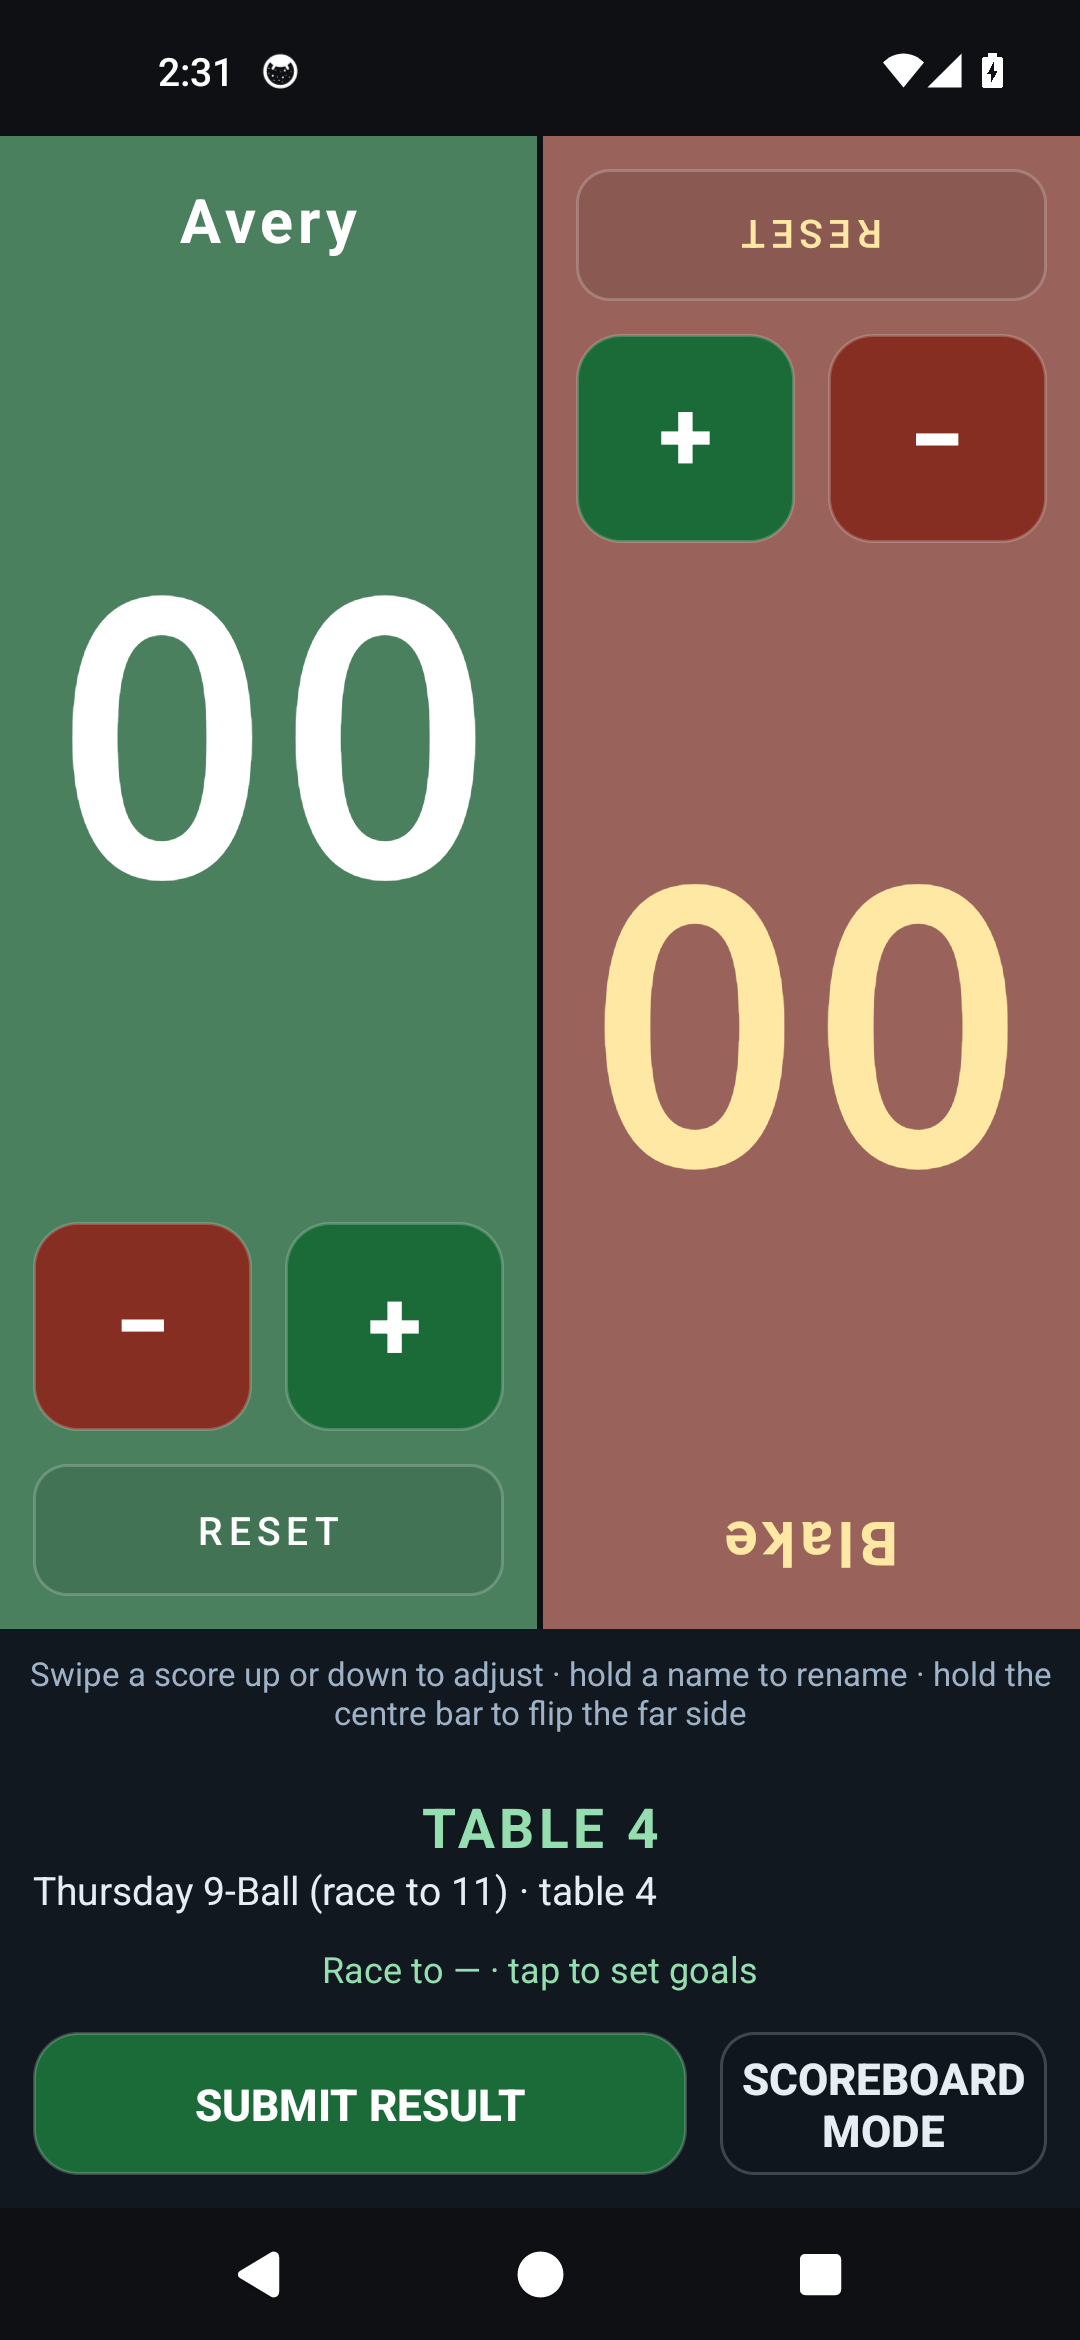
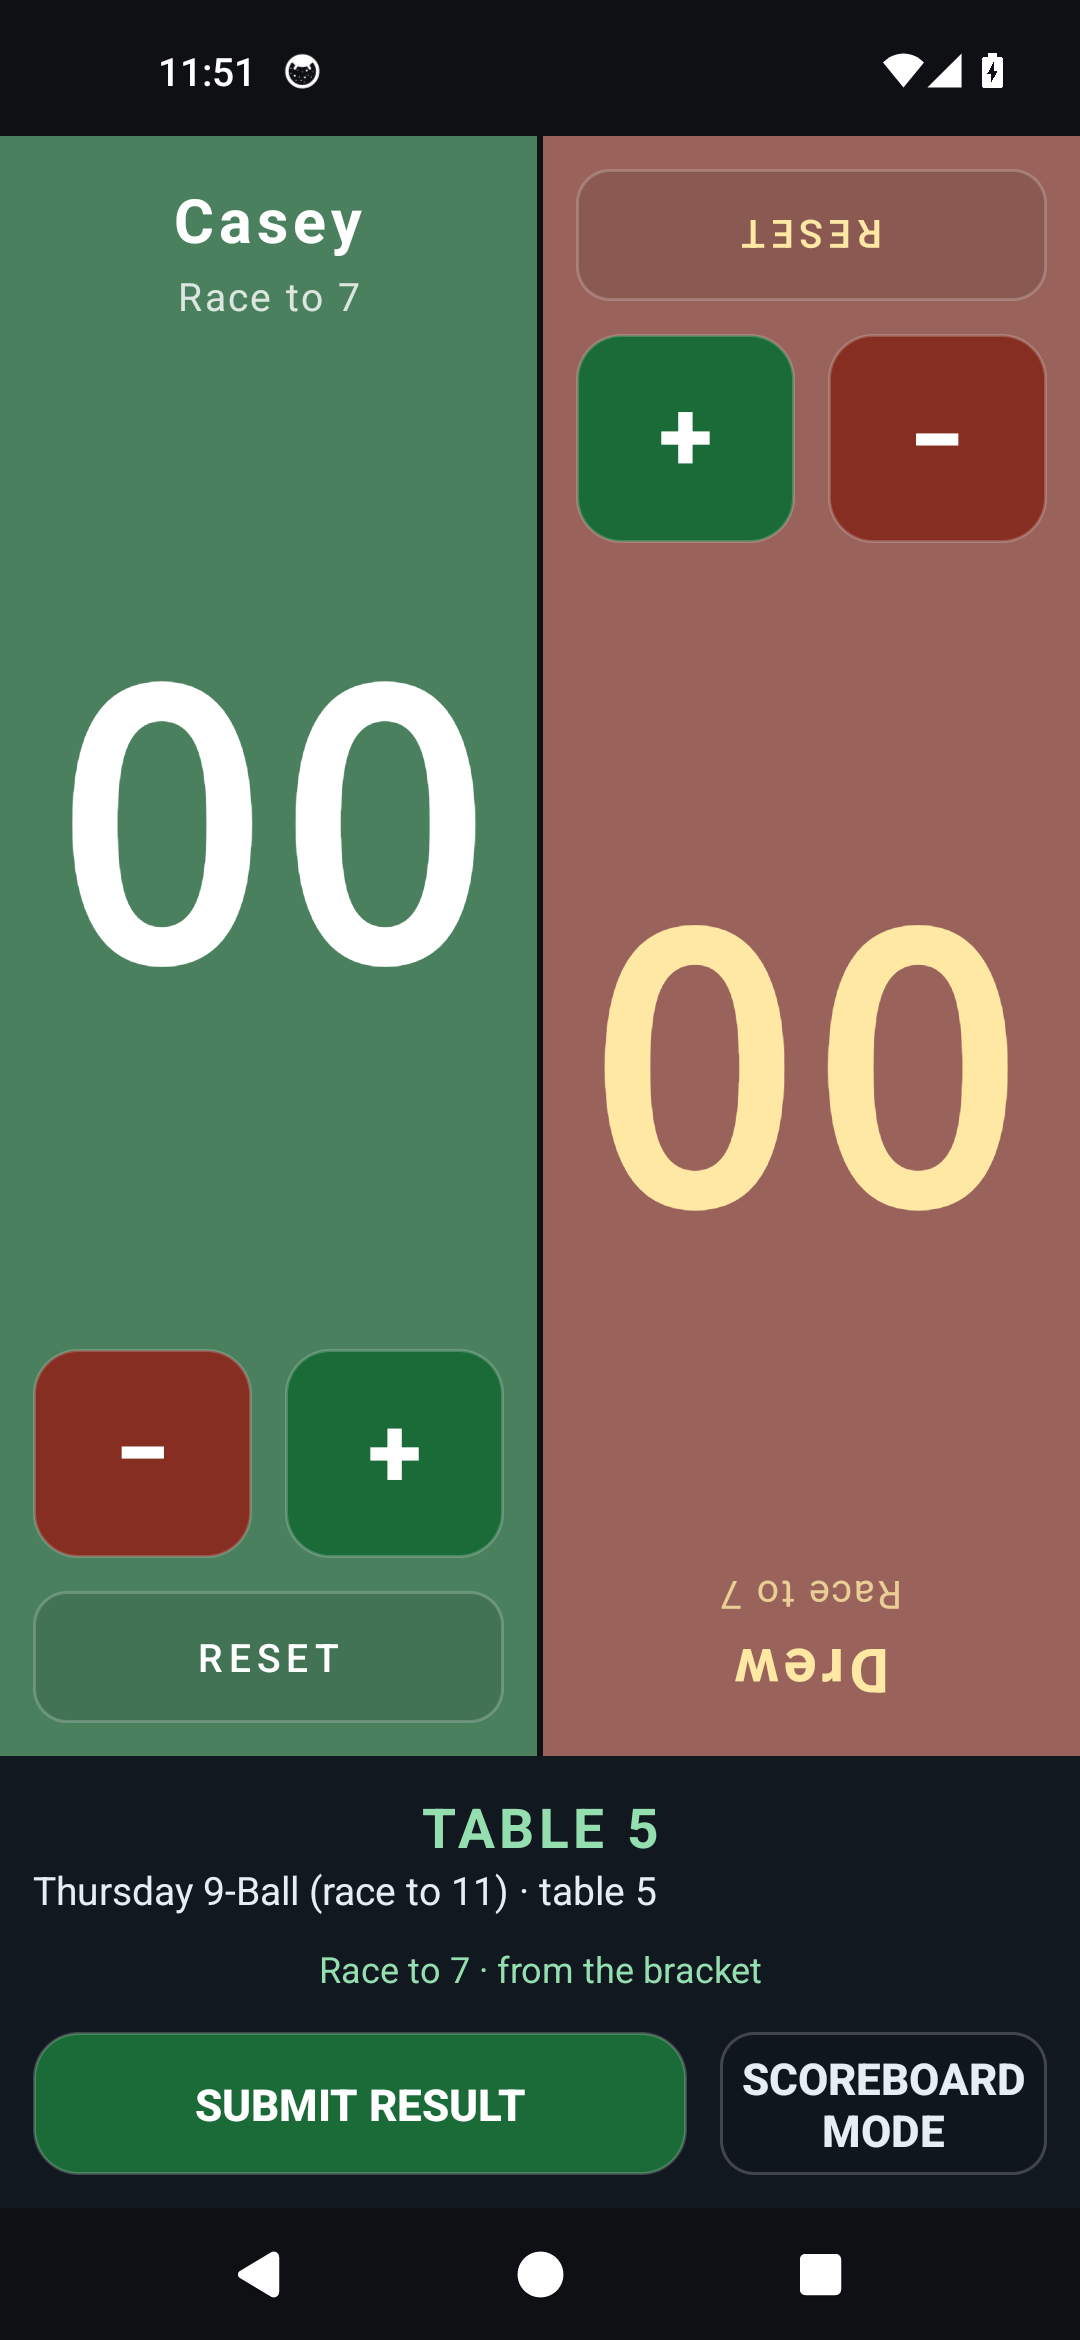
1.5: the race comes from the bracket, and the README says so
- The 1.5 build, ready to publish: versionName 1.5 / versionCode 6, 91,527 bytes, sha256
  25d570c283a7349ca5b5c04216d19cafadd27fc8609f3572ec0f24895682f1e1, built from kevinelong/score with
  `SIGN=release sh build.sh` and reproducible byte for byte (two builds gave the same digest).
- The README's race paragraph was description-of-1.4 and had it backwards: the app no longer expects you
  to type the target. A division's race (or a per-match one for a longer final) is read from the
  tournament when the link opens, and the race line says which layer supplied it - "Race to 7 · from the
  bracket", "the bracket's match override", or "the discipline's default, no target set". What you type
  is now an override, worded as the deviation it is ("LOCAL OVERRIDE · Race to 5 – 7 · the bracket's race
  is 7"), with the dialog's BRACKET'S RACE button handing the table back.
- Screenshots re-taken on this build, all five of them off the emulator running the 1.5 APK: portrait and
  landscape from the standalone trace, linked (a match opened from a link, with its table and the race
  line), race (a reached goal offering submit or keep editing), and view-only (a tournament not open for
  outside scoring, with Submit result disabled).
- Not published by this commit: the release (tag, notes, asset) is cut next, and until it exists the
  download link still serves 1.4, so `sh verify-release.sh --online` reports the mismatch rather than
  hiding it.

diff --git a/README.md b/README.md
@@ -86,11 +86,19 @@ players are listening for. If the tournament is not open for outside scoring, th
 **Submit result** disabled, rather than showing an error over a blank screen. Coming back to the app
 re-reads the match, so a correction made at the desk shows up without you doing anything.
 
-**Races are supported too.** Tap the race line to give each side a target — different targets are a
-handicap, like 11 against 9. The wording follows the discipline: a games race reads "Race to 7", while
-14.1 and 15-ball rotation are scored in points and read "Points to 100". A side one point short of its
-target says "match point". When either side reaches theirs the app tells you the match is over and
-offers to submit the result, or to keep editing if that was a mistake.
+**The race comes from the bracket.** A tournament keeps a race target — a division's, or a per-match one
+for a longer final — and the app reads it when the link opens, so an ordinary match needs no setting up:
+both sides play to the bracket's target, and the race line says where it came from (`Race to 7 · from the
+bracket`, the bracket's match override, or the discipline's default when nobody set one). The wording
+follows the discipline: a games race reads "Race to 7", while 14.1 and 15-ball rotation are scored in
+points and read "Points to 100". A side one point short of its target says "match point".
+
+Tapping the race line is how you score one table differently — an uneven handicap, like 11 against 9, or
+a target nobody else is playing to. What you type is an **override**, and it is worded as the deviation
+it is (`LOCAL OVERRIDE · Race to 5 – 7 · the bracket's race is 7`), on the race line and under the name;
+the dialog's `BRACKET'S RACE` button hands the table back to the bracket. When either side reaches its
+goal the app tells you the match is over and offers to submit the result, or to keep editing if that was
+a mistake.
 
 ![a reached goal offering submit or keep editing](screenshots/race.png)
 
